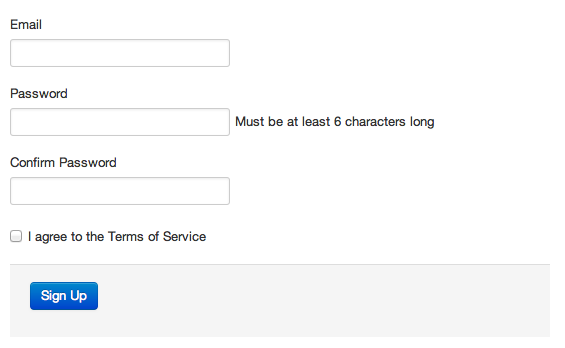
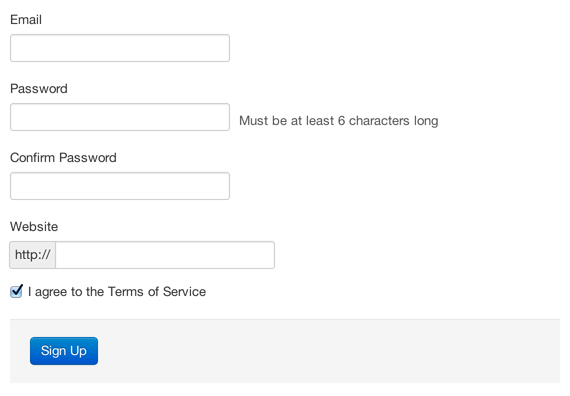
updating project README with a reference to the 'prepend' option

diff --git a/README.md b/README.md
@@ -56,9 +56,9 @@ This plugin provides the following form helpers:
 * datetime_select
 * check_box
 
-These form helpers accept the same options as the Rails form
-helpers with the addition of two options `label` and `help`. Here's an
-example form that also uses the `actions` helper for the submit button:
+These form helpers accept the same options as the Rails form helpers with the
+addition of the options `label`, `help`, and `prepend`.  Here's an example form
+that also uses the `actions` helper for the submit button:
 
     <%= bootstrap_form_for(@user) do |f| %>
       <%= f.alert_message "Please fix the errors below." %>
@@ -66,6 +66,7 @@ example form that also uses the `actions` helper for the submit button:
       <%= f.text_field :email, autofocus: :true %>
       <%= f.password_field :password, help: 'Must be at least 6 characters long' %>
       <%= f.password_field :password_confirmation, label: 'Confirm Password' %>
+      <%= f.text_field :website, prepend: 'http://' %>
       <%= f.check_box :terms, label: 'I agree to the Terms of Service' %>
 
       <%= f.actions do %>
